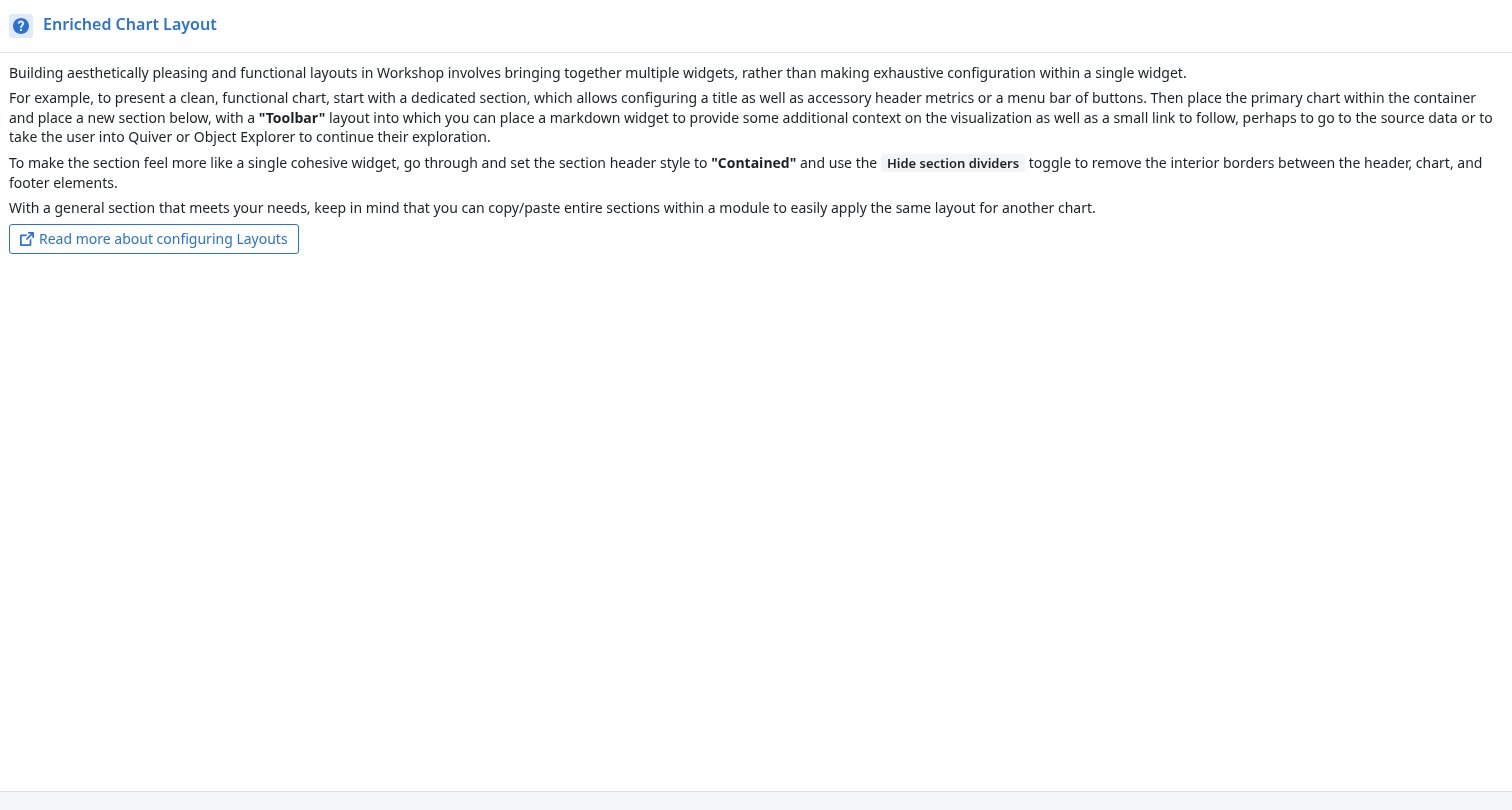
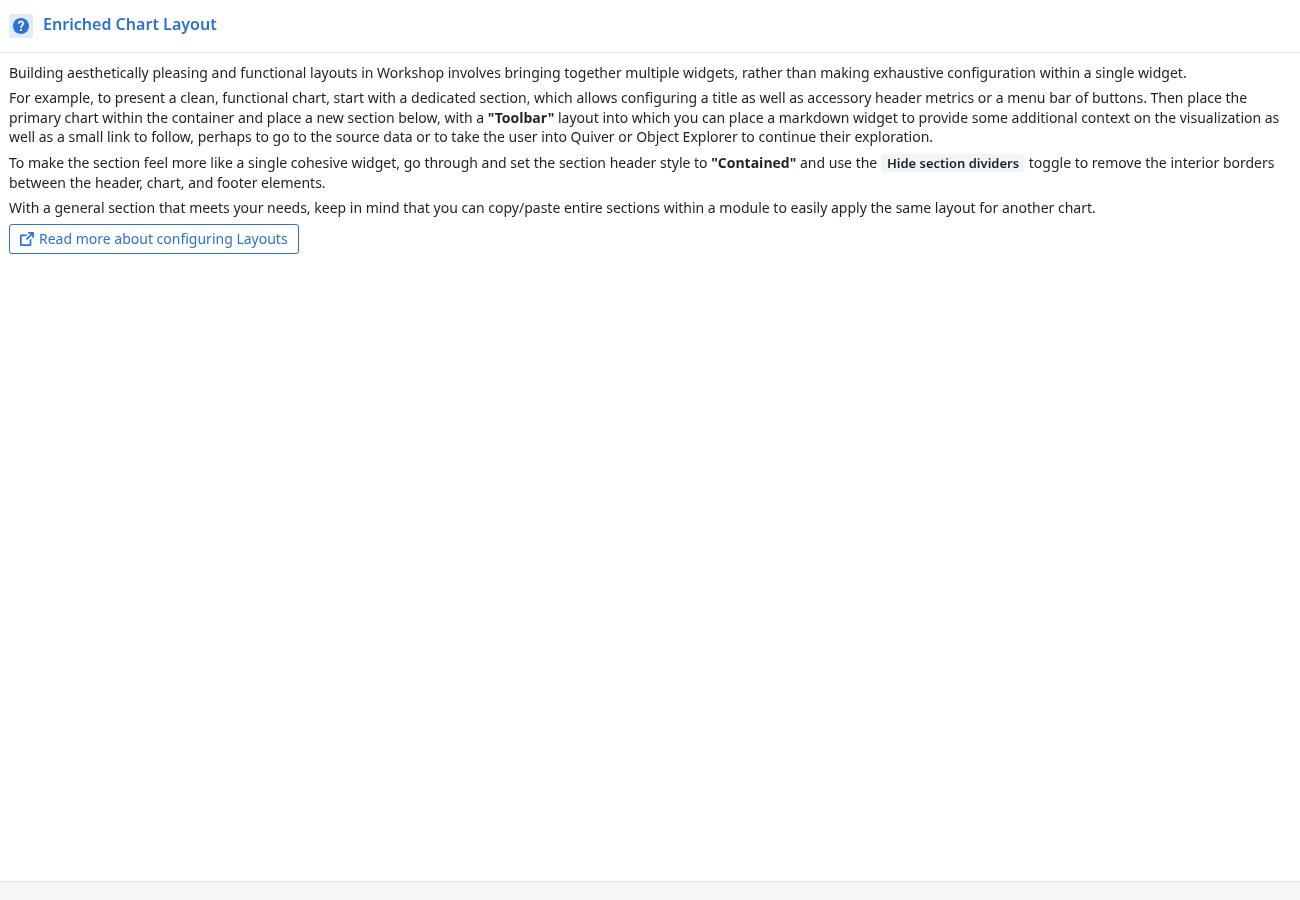
Latest builds of all 12 aviation apps with their Databricks proof results; MetroCycle and Vision Models section

Changed region(s): [[0.0, 0.0, 0.9846, 0.3086]]

diff --git a/index.html b/index.html
@@ -89,17 +89,21 @@ figure { margin: 0; display: flex; flex-direction: column; gap: 8px; min-width: 
 .step-btn b { font-weight: 650; white-space: nowrap; overflow: hidden; text-overflow: ellipsis; max-width: 16ch }
 .step-btn.next { text-align: right } .step-btn.next span { align-items: flex-end }
 .step-btn:hover { filter: brightness(1.08) }
-.tabs { display: grid; grid-template-columns: repeat(12, minmax(0, 1fr)); gap: 6px; min-width: 0 }
+.tabs { display: grid; grid-template-columns: repeat(14, minmax(0, 1fr)); gap: 6px; min-width: 0 }
 .tab { display: flex; flex-direction: column; align-items: center; justify-content: center; gap: 2px; min-width: 0; font: 500 12px var(--body); color: var(--soft); background: var(--panel); border: 1px solid var(--line); border-radius: 10px; padding: 6px 4px; cursor: pointer }
 .tab b { font: 700 18px/1 var(--display); color: var(--ink); font-variant-numeric: tabular-nums }
 .tab span { max-width: 100%; white-space: nowrap; overflow: hidden; text-overflow: ellipsis }
 .tab:hover { border-color: var(--accent) }
 .tab[aria-selected="true"] { background: var(--accent); border-color: var(--accent); color: var(--accent-ink) }
 .tab[aria-selected="true"] b { color: var(--accent-ink) }
+.tab.mc { border-style: dashed }
+.gviews { display: flex; flex-wrap: wrap; gap: 6px }
+.gviews button { font: 500 12px var(--body); color: var(--ink); background: var(--panel); border: 1px solid var(--line); border-radius: 999px; padding: 3px 10px; cursor: pointer }
+.gviews button[aria-pressed="true"] { background: var(--accent); border-color: var(--accent); color: var(--accent-ink) }
 .tab:focus-visible, .step-btn:focus-visible { outline: 2px solid var(--accent); outline-offset: 2px }
 .pos { font: 600 13px var(--mono); color: var(--accent); letter-spacing: .04em; text-transform: uppercase }
 @media (max-width: 1100px) { .tab span { display: none } .step-btn b { display: none } }
-@media (max-width: 640px) { .nav { grid-template-columns: 1fr 1fr; } .tabs { grid-column: 1 / -1; grid-row: 1; grid-template-columns: repeat(6, minmax(0, 1fr)) } .step-btn b { display: block } }
+@media (max-width: 640px) { .nav { grid-template-columns: 1fr 1fr; } .tabs { grid-column: 1 / -1; grid-row: 1; grid-template-columns: repeat(7, minmax(0, 1fr)) } .step-btn b { display: block } }
 .dframe { border: 1px solid var(--line); border-radius: 10px; overflow: hidden; background: var(--panel) }
 .dbar { display: flex; align-items: center; gap: 8px; padding: 7px 12px; border-bottom: 1px solid var(--line); background: var(--bg) }
 .ddot { width: 10px; height: 10px; border-radius: 3px; background: var(--dbx); flex: none }
@@ -113,8 +117,8 @@ figure { margin: 0; display: flex; flex-direction: column; gap: 8px; min-width: 
   <div class="bar">
     <div class="left">
       <span class="brand">Palantir Foundry apps, migrated to Databricks by Genesis</span>
-      <span class="chip ok" title="Every app was rebuilt by the Genesis agent and its values proved against Foundry">12 / 12 apps migrated · all 12 proofs pass against Foundry</span>
-      <span class="chip ok" title="Each deployed Databricks App proved against Foundry at its own address, signed in as a service principal that reads the app data and writes only to a scratch schema for save rehearsals">On Databricks: 0 failed checks on all 12 · 3 fully verified · 9 pass what they check · every save rehearsal passed</span>
+      <span class="chip ok" title="Every app was rebuilt by the Genesis agent and its values proved against Foundry">12 / 12 aviation apps migrated · all 12 proofs pass against Foundry · plus MetroCycle (2 apps)</span>
+      <span class="chip ok" title="Each deployed Databricks App proved against Foundry at its own address, signed in as a service principal that reads the app data and writes only to a scratch schema for save rehearsals">On Databricks: 0 failed checks on all 12 aviation apps · every save rehearsal passed · MetroCycle: 0 app faults, 3 data differences</span>
     </div>
   </div>
   <nav class="nav" aria-label="Apps">
@@ -127,33 +131,40 @@ figure { margin: 0; display: flex; flex-direction: column; gap: 8px; min-width: 
 <script>
 const DBX = (id) => "https://" + id + "-8259562314487447.gcp.databricksapps.com";
 const APPS = [
-  { name: "Route Overview", dshot: "route-overview-v10", dapp: "route-overview-v10", short: "Overview", g: "route-overview-v10", dproof: "Verified with open items · 0 failed · coverage 87% · 3 of 3 save rehearsals passed", f: "f-route-overview.jpg", dbx: "route-overview-v10",
+  { name: "Route Overview", dshot: "route-overview-v10", dapp: "route-overview-v10", short: "Overview", g: "route-overview-v11", dproof: "Verified with open items · 93 of 95 checks passed, 0 failed, 2 not checkable · coverage 87% · 10 random routes · save rehearsals passed", f: "f-route-overview.jpg", dbx: "route-overview-v11",
     proof: "Verified with open items · 3 runs, 44 random routes · 94 checks, 0 failed · coverage 87%", notes: ["Metric rows with red/green rules, weekly flight volume and the embedded route map", "Alert detail values proven with an alert selected"] },
-  { name: "Route Carriers", dshot: "route-carriers-v11", dapp: "route-carriers-v11", short: "Carriers", g: "route-carriers-v11", dproof: "Verified with open items · 0 failed · coverage 95% · save rehearsals passed · linked Learn More verified", f: "f-route-carriers.jpg", dbx: "route-carriers-v11",
+  { name: "Route Carriers", dshot: "route-carriers-v11", dapp: "route-carriers-v11", short: "Carriers", g: "route-carriers-v15", dproof: "Verified with open items · 71 of 72 checks passed, 0 failed · coverage 95% · 10 random routes · save rehearsals passed", f: "f-route-carriers.jpg", dbx: "route-carriers-v15",
     proof: "Verified with open items · 0 failed · coverage 95% (37 of 39 widgets)", notes: ["Carrier colours, line gaps, stack order and the “No Value” bar match Foundry", "Carrier Stats is a pivot grid: Endeavor 657 / 1.80 / 125.38 / 1.03"] },
-  { name: "Route Performance", dshot: "route-performance-v11", dapp: "route-performance-v11", short: "Performance", g: "route-performance-v11", dproof: "Verified with open items · 0 failed · coverage 97% · save rehearsals passed · linked Learn More verified", f: "f-route-performance.jpg", dbx: "route-performance-v11",
+  { name: "Route Performance", dshot: "route-performance-v11", dapp: "route-performance-v11", short: "Performance", g: "route-performance-v13", dproof: "Verified with open items · 95 of 96 checks passed, 0 failed · coverage 97% · 10 random routes · save rehearsals passed", f: "f-route-performance.jpg", dbx: "route-performance-v13",
     proof: "Verified with open items · 11 routes per run · 94 checks, 0 failed · coverage 91%", notes: ["Cohorts 75 vs 919 flights, 0% vs 0.33%, 131.3 vs 128.1 min, 13% vs 17% delayed", "Cohort date filters, Reverse and all chart layers working"] },
-  { name: "Route Alert Inbox", dshot: "route-alert-inbox-v12", dapp: "route-alert-inbox-v12", short: "Alert Inbox", g: "route-alert-inbox-v12", dproof: "Verified · 0 failed · coverage 100% · save rehearsals passed · linked Learn More verified", f: "f-route-alert-inbox.jpg", dbx: "route-alert-inbox-v12",
+  { name: "Route Alert Inbox", dshot: "route-alert-inbox-v12", dapp: "route-alert-inbox-v12", short: "Alert Inbox", g: "route-alert-inbox-v14", dproof: "Verified with open items · 23 of 23 checks passed · coverage 100% · save rehearsals passed", f: "f-route-alert-inbox.jpg", dbx: "route-alert-inbox-v14",
     proof: "Verified with open items · 37 checks, 0 failed · coverage 100% (route detail panel and alert tags now checked)", notes: ["Route detail panel: Foundry's Object View, read from Foundry and drawn with its properties and links", "Alert tags under each route, welcome text and filters checked against Foundry"] },
-  { name: "Ticket with Comments", dshot: "ticket-route-alert-v10", dapp: "ticket-route-alert-v10", short: "Ticket", g: "ticket-route-alert-v10", dproof: "Verified with open items · 0 failed · coverage 85% · 3 of 3 save rehearsals passed (comments, callouts) · linked Learn More verified", f: "f-ticket.jpg", dbx: "ticket-route-alert-v10",
+  { name: "Ticket with Comments", dshot: "ticket-route-alert-v10", dapp: "ticket-route-alert-v10", short: "Ticket", g: "ticket-route-alert-v11", dproof: "Verified with open items · 31 of 32 checks passed, 0 failed · coverage 85% · 3 of 3 save rehearsals passed (comments, callouts)", f: "f-ticket.jpg", dbx: "ticket-route-alert-v11",
     proof: "Verified with open items · 3 runs · 31 checks, 0 failed · coverage 85% · comment and callout saves rehearsed", notes: ["Comments write through an edits table, credited to the signed-in user", "Built straight from the tools, no hand-written queries"] },
-  { name: "Map and Gantt Charts", dshot: "map-and-gantt-v10", dapp: "map-and-gantt-v10", short: "Map & Gantt", g: "map-and-gantt-v10", dproof: "Verified with open items · 0 failed · coverage 94% · save rehearsals passed · linked Learn More verified", f: "f-map-and-gantt.jpg", dbx: "map-and-gantt-v10",
+  { name: "Map and Gantt Charts", dshot: "map-and-gantt-v10", dapp: "map-and-gantt-v10", short: "Map & Gantt", g: "map-and-gantt-v11", dproof: "Verified with open items · 46 of 47 checks passed, 0 failed · coverage 94% · 10 random aircraft", f: "f-map-and-gantt.jpg", dbx: "map-and-gantt-v11",
     proof: "Verified with open items · 0 failed · coverage 94% (15 of 16 widgets)", notes: ["Opens on the saved Dec 20–21 window with Foundry’s six Gantt bars", "Flight history table sorted and paged"] },
-  { name: "Flights Map", dshot: "flights-map-v11", dapp: "flights-map-v11", short: "Flights Map", g: "flights-map-v11", dproof: "Verified with open items · 0 failed · coverage 93% · save rehearsals passed · linked Learn More verified", f: "f-flights-map.jpg", dbx: "flights-map-v11",
+  { name: "Flights Map", dshot: "flights-map-v11", dapp: "flights-map-v11", short: "Flights Map", g: "flights-map-v12", dproof: "Verified with open items · 18 of 19 checks passed, 0 failed · coverage 93%", f: "f-flights-map.jpg", dbx: "flights-map-v12",
     proof: "Verified with open items · 33 checks, 0 failed · coverage 93%", notes: ["Search bar, route-volume labels and gradient map legend match Foundry", "Not rebuilt: the runways layer"] },
-  { name: "Common Operating Picture", dshot: "common-operating-picture-v11", dapp: "common-operating-picture-v11", short: "Op. Picture", g: "common-operating-picture-v11", dproof: "Verified with open items · 0 failed · coverage 88% · no saves to rehearse", f: "f-cop.jpg", dbx: "common-operating-picture-v11",
+  { name: "Common Operating Picture", dshot: "common-operating-picture-v11", dapp: "common-operating-picture-v11", short: "Op. Picture", g: "common-operating-picture-v13", dproof: "Verified with open items · 25 of 25 checks passed · coverage 88% · no saves to rehearse", f: "f-cop.jpg", dbx: "common-operating-picture-v13",
     proof: "Verified with open items · 3 runs · 24 checks, 0 failed · coverage 88% (greeting, carrier filter counts and histogram now checked)", notes: ["Totals 1,659,326 / 19,488 / 1.17% / 3,605 / 0.22% match", "Carrier facet counts and cluster map match Foundry"] },
-  { name: "Embedded Module · Airport", dshot: "embedded-airport-v11", dapp: "embedded-airport-v11", short: "Airport", g: "embedded-airport-v11", dproof: "Verified with open items · 0 failed · coverage 88% · save rehearsals passed", f: "f-airport.jpg", dbx: "embedded-airport-v11",
+  { name: "Embedded Module · Airport", dshot: "embedded-airport-v11", dapp: "embedded-airport-v11", short: "Airport", g: "embedded-airport-v12", dproof: "Verified with open items · 50 of 52 checks passed, 0 failed · coverage 88% · 11 airports", f: "f-airport.jpg", dbx: "embedded-airport-v12",
     proof: "Verified with open items · 42 checks, 0 failed · coverage 88%", notes: ["The whole embedded Flights Map drawn in place, filtered to the airport", "Bound airport shown as the pre-filled filter pill, as in Foundry"] },
   { name: "Map-Centric Module", dshot: "map-centric-v10", dapp: "map-centric-v10", short: "Map-Centric", g: "map-centric-v10", dproof: "Verified with open items · 0 failed · coverage 100% · no saves to rehearse", f: "f-map-centric.jpg", dbx: "map-centric-v10",
     proof: "Verified · coverage 100% · every airport, route, key and coordinate matches", notes: ["Airports and route lines over the full map", "Opening state (all airports, all routes) proven"] },
   { name: "Learn More Overlay", dshot: "learn-more-overlay-v9", dapp: "genesis-learn-more-overlay-v9", short: "Learn More", sub: "Reusable pop-up module, shown here on its own", g: "learn-more-overlay-v9", dproof: "Verified · 0 failed · coverage 100% · save rehearsals passed", f: "f-learn-more.jpg", dbx: "genesis-learn-more-overlay-v9",
     proof: "Verified · every check passed · 0 failed", notes: ["Not a standalone app: a reusable pop-up that other apps (Flights Map, Ticket, Airport) open from their “How it works” buttons, so in Foundry too it is just a titled text panel", "The rebuilt apps open this same module as their pop-up; its explainer text is editable, with edits credited to the signed-in user"] },
-  { name: "Reference Foundation Landing Page", dshot: "reference-landing-v12", dapp: "reference-landing-v12", short: "Reference", g: "reference-landing-v12", dproof: "Verified · 0 failed · coverage 100% · the embedded Route Alert Inbox verified at its own Databricks address, save rehearsals included", f: "f-reference.jpg", dbx: "reference-landing-v12",
+  { name: "Reference Foundation Landing Page", dshot: "reference-landing-v12", dapp: "reference-landing-v12", short: "Reference", g: "reference-landing-v13", dproof: "Verified with open items · 7 of 7 checks passed · coverage 100% · the embedded Route Alert Inbox proved at its own address", f: "f-reference.jpg", dbx: "reference-landing-v13",
     proof: "Verified with open items · coverage 100% (20 of 20 widgets) · both Notepad documents and the embedded inbox match Foundry", notes: ["The Foundation Data Index and Reference Example Index Notepad documents read from Foundry, lineage diagram included", "The Example Application tab embeds the migrated Route Alert Inbox"] },
+  { name: "MetroCycle", section: "MetroCycle", short: "MetroCycle", status: "Not verified: data differences", gap: true, g: "metrocycle-v6--fleet", gviews: [["Home","metrocycle-v6--home"],["Fleet","metrocycle-v6--fleet"],["Maintenance","metrocycle-v6--maintenance"],["Transport","metrocycle-v6--transport"],["Employees","metrocycle-v6--employees"],["Financials","metrocycle-v6--financials"],["Map","metrocycle-v6--map"]], dbx: "metrocycle-v6",
+    dproof: "Not verified · 103 of 110 checks passed · 3 failed, all traced to the migrated data, none to the app · 4 save buttons not reached · coverage 78% (80% needed) · 5 of 5 save rehearsals passed, in a scratch schema only",
+    proof: "Rendered page matched on every sampled input · all 32 text and button checks matched · the embedded Vision Models module matched at its own address", notes: ["A bike-share operations app from a Foundry Marketplace product: seven tabs over 13,446 bikes, work orders, dispatch, timecards and finances", "Work-order and bike-move saves run as the signed-in user, written to an edits table", "The 3 failures are data, by decision: bike locations follow the data migration’s last-location rule, timecard IDs are random on every build, and 4 of 50 bike media references differ", "Not rebuilt: the Quiver ride dashboard and the home tab’s media preview"] },
+  { name: "Vision Models", section: "MetroCycle", short: "Vision", status: "Matches where comparable", gap: true, dshot: "vision-models-v4", dapp: "vision-models-v4", g: "vision-models-v4", dbx: "vision-models-v4", sub: "Ask a question about a bike photo; embedded in MetroCycle",
+    dproof: "Not verified · 11 of 11 checks passed, 0 failed · coverage 50% (80% needed): the AI answer, image preview and question box have nothing in Foundry to compare against",
+    proof: "Bike image list, selection, suggestion questions and the rendered page match Foundry", notes: ["Foundry answers with its GPT-4o vision function; the migrated app asks Claude Haiku 4.5 on a Databricks serving endpoint, and says so under each answer", "Suggestion cards fill the question box; the preview shows the selected bike’s landed image"] },
 ];
 const N = APPS.length;
-let cur = 0, view = "d";
+let cur = 0, view = "d", gv = 1;
+const NAV = APPS.filter(a => !a.section).length;
 const stage = document.getElementById("stage");
 const el = (tag, attrs = {}, ...kids) => { const e = document.createElement(tag); for (const [k, v] of Object.entries(attrs)) { if (k === "class") e.className = v; else if (k === "text") e.textContent = v; else e.setAttribute(k, v); } e.append(...kids); return e; };
 
@@ -187,9 +198,10 @@ function how() {
 function app(i) {
   const a = APPS[i];
   const s = el("section", { class: "slide" });
-  s.append(el("div", { class: "head" }, el("div", {}, el("div", { class: "pos", text: "App " + (i + 1) + " of " + N }), el("h2", { text: a.name }), a.sub ? el("div", { class: "foot", text: a.sub }) : ""), el("span", { class: "chip " + (a.gap ? "warn" : "ok"), text: a.gap ? "Gaps to close" : "Matches Foundry" })));
+  s.append(el("div", { class: "head" }, el("div", {}, el("div", { class: "pos", text: a.section ? a.section + " · bike share · app " + (i - NAV + 1) + " of " + (N - NAV) : "Aviation · app " + (i + 1) + " of " + NAV }), el("h2", { text: a.name }), a.sub ? el("div", { class: "foot", text: a.sub }) : ""), el("span", { class: "chip " + (a.gap ? "warn" : "ok"), text: a.status || (a.gap ? "Gaps to close" : "Matches Foundry") })));
   const left = el("figure", {}, el("div", { class: "fh" }, el("span", { class: "label", text: "Palantir Foundry" })),
-    el("a", { class: "shot", href: "img/" + a.f, target: "_blank", rel: "noopener" }, el("img", { src: "img/" + a.f, alt: a.name + " in Palantir Foundry", loading: "lazy" })));
+    a.f ? el("a", { class: "shot", href: "img/" + a.f, target: "_blank", rel: "noopener" }, el("img", { src: "img/" + a.f, alt: a.name + " in Palantir Foundry", loading: "lazy" }))
+        : el("div", { class: "pending" }, el("span", { class: "chip warn", text: "Foundry capture coming" }), el("p", { text: "The screenshot of the original Workshop app is being taken in Foundry." })));
   const seg = el("div", { class: "seg", role: "group", "aria-label": "Version" });
   const bd = el("button", { type: "button", "aria-pressed": String(view === "d") , text: "Databricks App" });
   const bg = el("button", { type: "button", "aria-pressed": String(view === "g"), text: "Genesis app" });
@@ -197,7 +209,9 @@ function app(i) {
   seg.append(bd, bg);
   const right = el("figure", {}, el("div", { class: "fh" }, seg, el("span", { class: "label" + (view === "d" ? " dbx" : ""), text: view === "d" ? "Running in Databricks" : "Running in Genesis" })));
   if (view === "g") {
-    right.append(el("a", { class: "shot", href: "img/g-" + a.g + ".jpg", target: "_blank", rel: "noopener" }, el("img", { src: "img/g-" + a.g + ".jpg", alt: a.name + " rebuilt as a Genesis app", loading: "lazy" })));
+    const gk = a.gviews ? a.gviews[gv][1] : a.g;
+    if (a.gviews) { const gs = el("div", { class: "gviews", role: "group", "aria-label": "Tab" }); a.gviews.forEach(([t], j) => { const b = el("button", { type: "button", "aria-pressed": String(j === gv), text: t }); b.onclick = () => { gv = j; render(); }; gs.append(b); }); right.append(gs); }
+    right.append(el("a", { class: "shot", href: "img/g-" + gk + ".jpg", target: "_blank", rel: "noopener" }, el("img", { src: "img/g-" + gk + ".jpg", alt: a.name + " rebuilt as a Genesis app", loading: "lazy" })));
   } else if (a.dshot) {
     const url = DBX(a.dapp || a.dshot);
     const frame = el("div", { class: "dframe" });
@@ -236,9 +250,9 @@ function render() {
   stage.scrollTop = 0;
   try { history.replaceState(null, "", "#" + (cur + 1)); } catch (e) {}
 }
-function go(n) { cur = (n + N) % N; render(); }
+function go(n) { cur = (n + N) % N; gv = 1; render(); }
 const tabs = document.getElementById("tabs");
-APPS.forEach((a, i) => { const t = el("button", { type: "button", class: "tab", role: "tab", title: a.name, "aria-label": (i + 1) + ". " + a.name }, el("b", { text: String(i + 1) }), el("span", { text: a.short })); t.onclick = () => go(i); tabs.append(t); });
+APPS.forEach((a, i) => { const t = el("button", { type: "button", class: "tab" + (a.section ? " mc" : ""), role: "tab", title: a.name, "aria-label": (i + 1) + ". " + a.name }, el("b", { text: String(i + 1) }), el("span", { text: a.short })); t.onclick = () => go(i); tabs.append(t); });
 document.getElementById("prev").onclick = () => go(cur - 1);
 document.getElementById("next").onclick = () => go(cur + 1);
 document.addEventListener("keydown", (e) => {

diff --git a/README.md b/README.md
@@ -1,3 +1,3 @@
 # Foundry Workshop apps on Genesis and Databricks
 
-A presentation of twelve Palantir Foundry Workshop example apps (aviation) migrated by the Genesis agent to Genesis apps and Databricks Apps, each proved value by value against Foundry. Open `index.html`, or the GitHub Pages site.
+A presentation of twelve Palantir Foundry Workshop example apps (aviation), plus the two MetroCycle bike-share apps, migrated by the Genesis agent to Genesis apps and Databricks Apps, each proved value by value against Foundry. Open `index.html`, or the GitHub Pages site.
